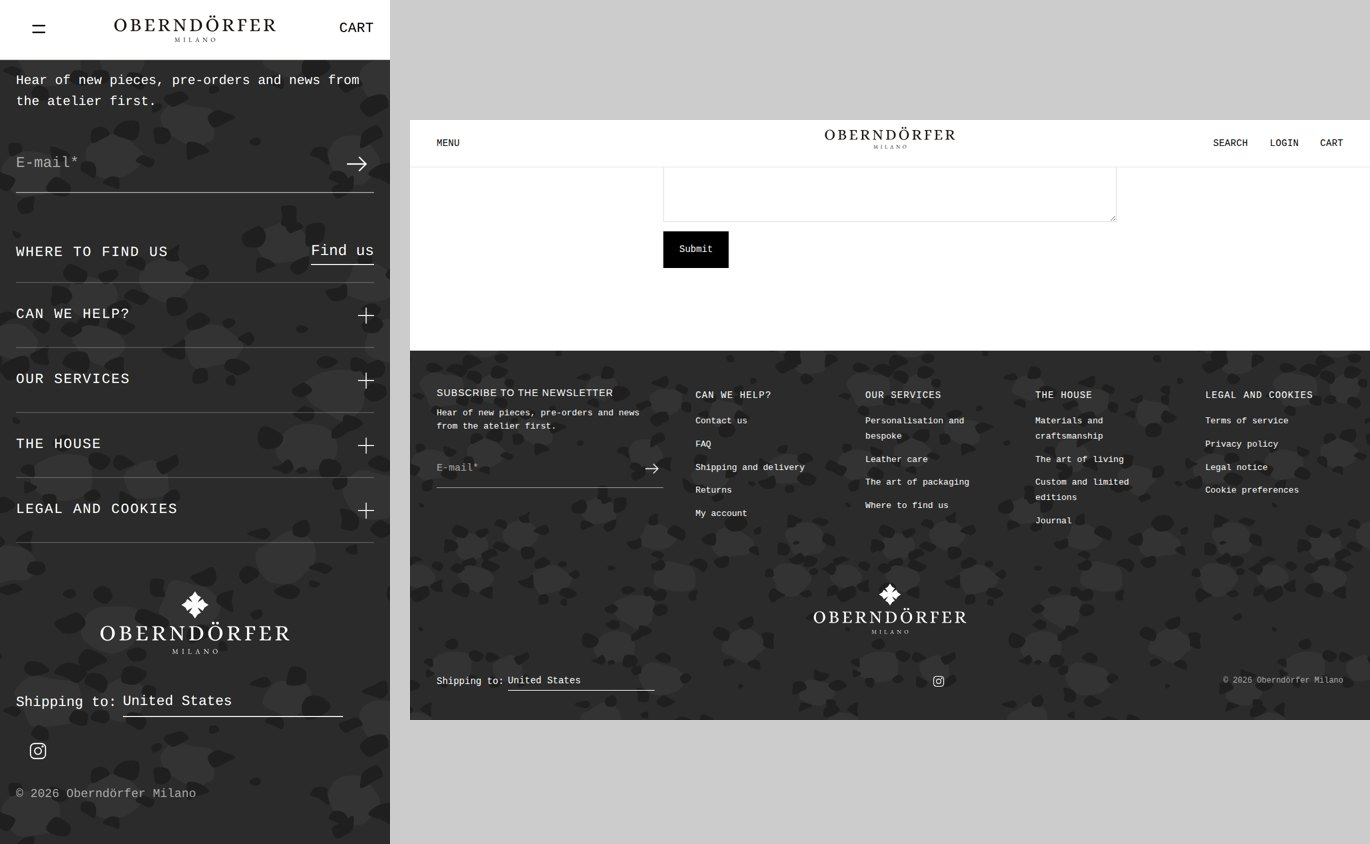
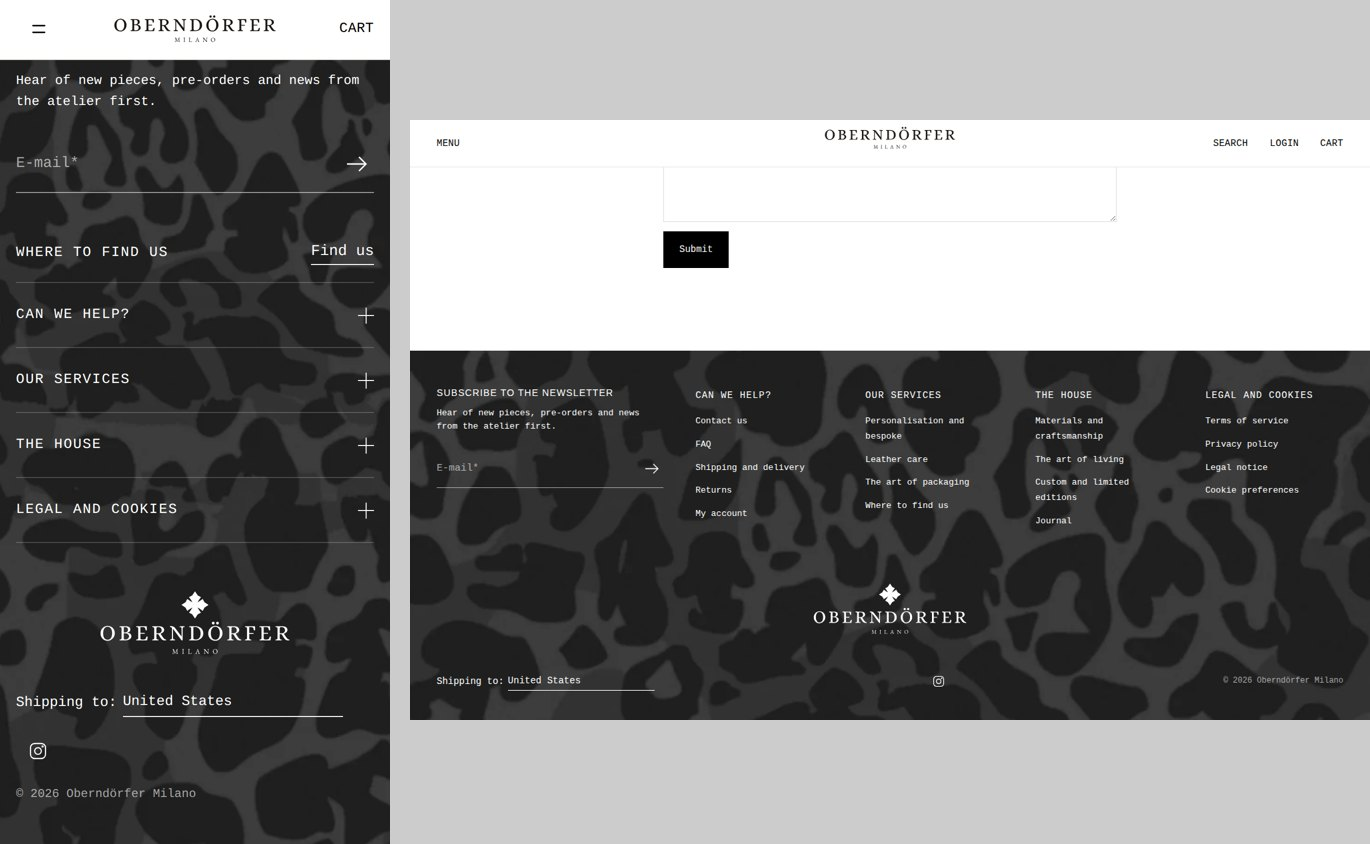
Footer: the owner's leopard print in dark greys, repeating without a seam
Claude-Session: https://claude.ai/code/session_01AC1f37guDfHWxkMWq358hb

diff --git a/redesign-2026/tools/leopard_tile.py b/redesign-2026/tools/leopard_tile.py
@@ -1,0 +1,24 @@
+# leopard_tile.py GREY_IN OUT : make the grey leopard (from leopard_grey.py) repeat downwards without a
+# seam (the footer shows it at full width, so it only repeats vertically). Shift by half a tile vertically, cross-fade the seam band with the unshifted image, then re-cut the blended
+# field into the print's own three tones (spot, shadow patch, ground) so blended spots merge into new
+# organic shapes instead of showing as half-transparent ghosts.
+import sys, numpy as np, cv2
+g = cv2.imread(sys.argv[1], cv2.IMREAD_GRAYSCALE).astype(np.float32)
+g = cv2.GaussianBlur(g, (0, 0), 1.0)
+h, w = g.shape
+# the print's tones: three clusters
+Z = g.reshape(-1, 1)
+_, lab, cen = cv2.kmeans(Z, 3, None, (cv2.TERM_CRITERIA_EPS + cv2.TERM_CRITERIA_MAX_ITER, 20, 0.5), 3, cv2.KMEANS_PP_CENTERS)
+c = np.sort(cen.ravel())
+t1, t2 = (c[0] + c[1]) / 2, (c[1] + c[2]) / 2
+r = np.roll(g, h // 2, 0)
+yy, xx = np.mgrid[0:h, 0:w]
+b = 110.0
+m = (1 - np.abs(yy - h / 2) / b).clip(0, 1)
+m = m * m * (3 - 2 * m)
+f = r * (1 - m) + g * m
+q = np.where(f < t1, c[0], np.where(f < t2, c[1], c[2])).astype(np.float32)
+q = cv2.GaussianBlur(q, (0, 0), 0.9)
+q += np.random.default_rng(4).normal(0, 0.6, q.shape)
+cv2.imwrite(sys.argv[2], np.clip(q, 0, 255).astype(np.uint8), [cv2.IMWRITE_JPEG_QUALITY, 88])
+print('tones', c.round(1))

diff --git a/redesign-2026/tools/leopard_grey.py b/redesign-2026/tools/leopard_grey.py
@@ -1,0 +1,21 @@
+# leopard_grey.py SRC OUT : the owner's leopard print (olive, 8 October) turned into dark grey shades for
+# the footer: removes the small sparkle mark in the lower right corner, then maps the luminance onto a
+# narrow dark-grey range so white writing stays readable on top.
+import sys, numpy as np, cv2
+im = cv2.imread(sys.argv[1], cv2.IMREAD_COLOR)
+h, w = im.shape[:2]
+# sparkle mark: a small light star near (0.875w, 0.885h)
+mask = np.zeros((h, w), np.uint8)
+cx, cy, r = int(w * 0.876), int(h * 0.885), int(w * 0.03)
+roi = cv2.cvtColor(im[cy - r:cy + r, cx - r:cx + r], cv2.COLOR_BGR2GRAY)
+mask[cy - r:cy + r, cx - r:cx + r] = (roi > np.percentile(roi, 80)).astype(np.uint8) * 255
+mask = cv2.dilate(mask, np.ones((5, 5), np.uint8))
+im = cv2.inpaint(im, mask, 7, cv2.INPAINT_TELEA)
+L = cv2.cvtColor(im, cv2.COLOR_BGR2LAB)[..., 0].astype(np.float32)
+lo, hi = np.percentile(L, 2), np.percentile(L, 98)
+t = np.clip((L - lo) / (hi - lo), 0, 1)
+g = 0x1c + t * (0x3e - 0x1c)               # spots ~#1c1c1c, ground ~#3e3e3e
+g += np.random.default_rng(2).normal(0, 0.6, g.shape)  # a little grain against banding
+out = np.clip(g, 0, 255).astype(np.uint8)
+cv2.imwrite(sys.argv[2], cv2.merge([out, out, out]), [cv2.IMWRITE_JPEG_QUALITY, 90])
+print(w, h, 'range', lo, hi)

diff --git a/redesign-2026/README.md b/redesign-2026/README.md
@@ -224,5 +224,5 @@ Store-level changes, so they apply to the live site too:
 - Colour dots on ready-to-wear: the size-box style had also boxed the colour swatches. Sizes and colours are styled separately now; the chosen colour gets a round ring in the add-to-cart black (label overflow made visible so the ring is not clipped).
 - Homepage "Ready to wear" tile: cap replaced by the black Chrome T-shirt (back), white label.
 - Files replaced in place (live at once): obm-2026-mirror-sun-phone.jpg rebuilt by hero/phone.py with a smooth, dithered wall (the old extension had streaks and blocks that read as pixelation); obm-2026-brass-stamp-studio.jpg rebuilt by tools/stamp_extend.py from the original photograph, keeping its own shadow and table.
-- Footer: dark grey (#2b2b2b) with white writing and a soft grey leopard print (assets/obm-leopard-grey.svg, 640px tile, from tools/leopard.py); the logo is turned white with a CSS filter. In the fixes draft.
+- Footer: dark grey (#2b2b2b) with white writing over the owner's own leopard print turned into dark greys (assets/obm-leopard-grey.jpg; tools/leopard_grey.py removes the small sparkle mark and maps it to greys, tools/leopard_tile.py makes it repeat downwards without a seam). Shown full width, at least 900px. The logo is turned white with a CSS filter. In the fixes draft (an unused assets/obm-leopard-grey.svg from the first try is still in that theme; file deletes are blocked for the tools).
 - About us / Art of Living / Leather care: the owner chose the first mockup layout with new photographs (mockups-favourite-layout-new-photos.jpg); not built yet.
